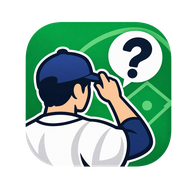
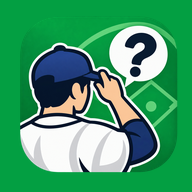
iPhone/Safariの動画初期ロード、インストール時のアイコンの白フチ　の対応

diff --git a/public/app.js b/public/app.js
@@ -1,4 +1,4 @@
-const APP_BUILD = "23";
+const APP_BUILD = "25";
 console.info(`[SIGN TRAINER] build ${APP_BUILD}`);
 
 const PUBLIC_SITE_URL = "https://basebasll-sign-trainer.refrain62.workers.dev";
@@ -790,13 +790,22 @@ function buildYouTubeEmbedUrl(videoId) {
 
   const params = new URLSearchParams({
     autoplay: "1",
+    mute: "1",
     playsinline: "1",
-    controls: "1",
-    rel: "0"
+    controls: "0",
+    disablekb: "1",
+    fs: "0",
+    iv_load_policy: "3",
+    rel: "0",
+    hl: "ja",
+    enablejsapi: "1",
+    origin: window.location.origin
   });
 
+  // iPhone/Safariでも問題表示と同時にプレイヤーをロードする。
+  // 音声付き自動再生はiOSでブロックされるため、最初はmute=1で再生を試す。
   // Shorts も通常動画も埋め込み時は同じ /embed/{videoId} を使う。
-  return `https://www.youtube.com/embed/${encodeURIComponent(id)}?${params.toString()}`;
+  return `https://www.youtube-nocookie.com/embed/${encodeURIComponent(id)}?${params.toString()}`;
 }
 
 function startVideo(item) {
@@ -822,10 +831,9 @@ function startVideo(item) {
   iframe.title = `${item.name}のサイン動画`;
   iframe.src = src;
   iframe.loading = "eager";
-  iframe.allow = "accelerometer; autoplay; clipboard-write; encrypted-media; gyroscope; fullscreen";
+  iframe.allow = "accelerometer; autoplay; encrypted-media; gyroscope";
   iframe.referrerPolicy = "strict-origin-when-cross-origin";
-  iframe.allowFullscreen = true;
-  iframe.setAttribute("playsinline", "");
+    iframe.setAttribute("playsinline", "");
 
   state.player = iframe;
   state.playerReady = false;
@@ -853,6 +861,22 @@ function startVideo(item) {
   }, { once: true });
 
   mount.replaceChildren(iframe);
+
+  // Safari/iOSではiframeのloadイベントがユーザー操作後まで遅れる場合がある。
+  // プレイヤー自体は既に挿入済みなので、短時間で独自ローディング表示を外し、
+  // YouTube側のプレイヤー/サムネイルを直接見せる。
+  window.setTimeout(() => {
+    if (state.player !== iframe) return;
+    cover.hidden = true;
+    cover.classList.add("is-hidden");
+    // iOSではiframeのloadイベントが遅延することがあるため、
+    // ここで「プレイヤーは画面に出せる状態」とみなし、誤タイムアウトを防ぐ。
+    if (!state.playerReady) {
+      state.playerReady = true;
+      clearTimeout(state.videoLoadTimer);
+      state.videoLoadTimer = null;
+    }
+  }, 450);
 }
 
 function replayVideo(item) {
@@ -1075,10 +1099,9 @@ function startReviewVideo(item, mistakes) {
   iframe.title = `${item.name}のサイン動画`;
   iframe.src = src;
   iframe.loading = "eager";
-  iframe.allow = "accelerometer; autoplay; clipboard-write; encrypted-media; gyroscope; fullscreen";
+  iframe.allow = "accelerometer; autoplay; encrypted-media; gyroscope";
   iframe.referrerPolicy = "strict-origin-when-cross-origin";
-  iframe.allowFullscreen = true;
-  iframe.setAttribute("playsinline", "");
+    iframe.setAttribute("playsinline", "");
   state.player = iframe;
   state.playerReady = false;
 
@@ -1102,6 +1125,19 @@ function startReviewVideo(item, mistakes) {
   }, { once: true });
 
   mount.replaceChildren(iframe);
+
+  window.setTimeout(() => {
+    if (state.player !== iframe) return;
+    cover.hidden = true;
+    cover.classList.add("is-hidden");
+    // iOSではiframeのloadイベントが遅延することがあるため、
+    // ここで「プレイヤーは画面に出せる状態」とみなし、誤タイムアウトを防ぐ。
+    if (!state.playerReady) {
+      state.playerReady = true;
+      clearTimeout(state.videoLoadTimer);
+      state.videoLoadTimer = null;
+    }
+  }, 450);
 }
 
 function renderReviewVideoError(item, mistakes, message = "通信環境を確認して、再度お試しください。") {

diff --git a/public/index.html b/public/index.html
@@ -12,12 +12,14 @@
     <meta property="og:image" content="https://basebasll-sign-trainer.refrain62.workers.dev/og.png" />
     <meta name="twitter:card" content="summary_large_image" />
     <link rel="canonical" href="https://basebasll-sign-trainer.refrain62.workers.dev/" />
+    <link rel="preconnect" href="https://www.youtube-nocookie.com" crossorigin />
+    <link rel="preconnect" href="https://i.ytimg.com" crossorigin />
     <title>SIGN TRAINER | 野球のサイン練習</title>
     <link rel="icon" href="/favicon-32.png" sizes="32x32" type="image/png" />
     <link rel="icon" href="/favicon-48.png" sizes="48x48" type="image/png" />
     <link rel="apple-touch-icon" href="/apple-touch-icon.png" />
     <link rel="manifest" href="/manifest.webmanifest" />
-    <link rel="stylesheet" href="/styles.css?v=23" />
+    <link rel="stylesheet" href="/styles.css?v=25" />
   </head>
   <body>
     <div id="app" aria-live="polite"></div>
@@ -68,6 +70,6 @@
       </div>
     </dialog>
 
-    <script src="/app.js?v=23" type="module"></script>
+    <script src="/app.js?v=25" type="module"></script>
   </body>
 </html>

diff --git a/public/styles.css b/public/styles.css
@@ -1222,3 +1222,17 @@ svg { display: block; }
   .capability-card h3 { font-size:17px; }
   .capability-card p, .capabilities-heading p { font-size:13px; }
 }
+
+/* build 24: distraction-free YouTube playback */
+.player-frame {
+  background: #020b12;
+}
+.player-frame iframe {
+  display: block;
+  width: 100%;
+  height: 100%;
+}
+@media (max-width: 680px) {
+  .quiz-content { width: min(100%, 680px); }
+  .player-frame { border-radius: 10px; }
+}

diff --git a/README.md b/README.md
@@ -336,3 +336,23 @@ Cloudflare 上の Worker に `TEAM_PASSPHRASE` または `SESSION_SECRET` が設
 - チーム用共有URLには `openExternalBrowser=1` を付け、LINEから開いた際に外部ブラウザへ誘導する前提です。
 - 合言葉はURL/QRには含めません。メンバーには別経路・別メッセージで伝えてください。
 - QR表示は `api.qrserver.com` を利用し、送信される情報は共有対象URLのみです。
+
+
+## YouTubeプレイヤー表示（build 24）
+
+クイズ動画は、サイン動作が操作UIで隠れにくいように YouTube の埋め込みプレイヤーを最小UIで表示します。
+
+- `controls=0`: プレイヤーの操作バーを非表示
+- `fs=0`: 全画面ボタンを非表示
+- `disablekb=1`: キーボード操作を無効化
+- `iv_load_policy=3`: アノテーションを非表示
+- `playsinline=1`: モバイルでインライン再生
+
+YouTube側が必須として表示するロゴ・再生前後の表示などは完全には除去できません。
+
+
+## Build 25
+
+- iPhone/Safari向けにYouTubeを問題表示時に即ロードし、mute付きautoplayを試行します。
+- Safariのiframe loadイベント待ちで画面が止まらないよう、独自ローディング表示を短時間で外します。
+- インストール用アイコン（Apple Touch / PWA / maskable）は緑を端まで敷いたフルブリード版にし、OS側の白フチを防ぎます。
